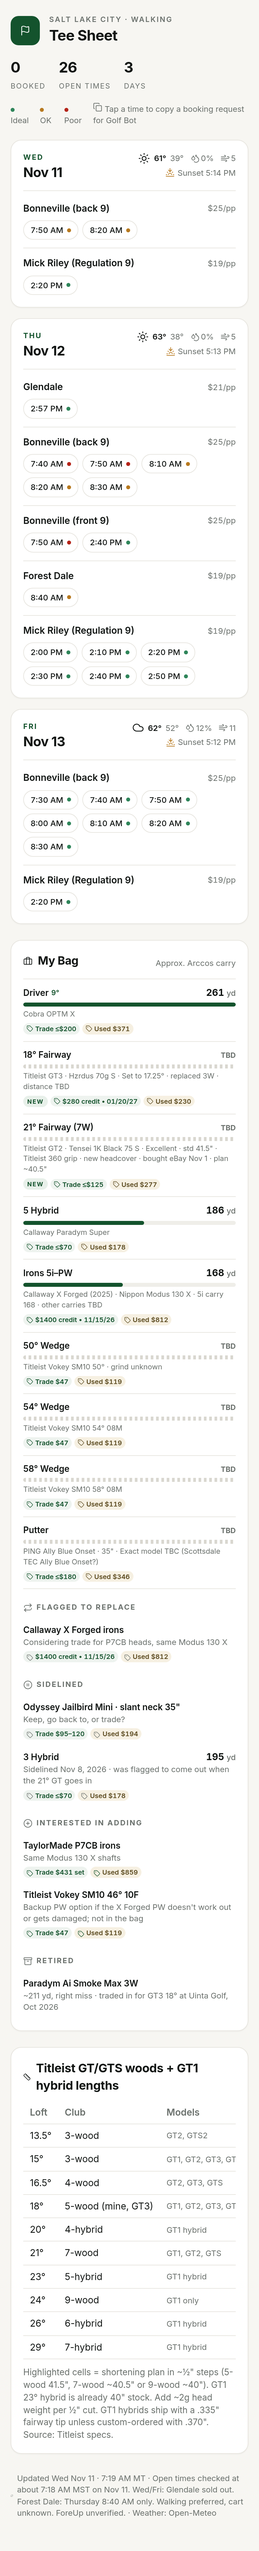
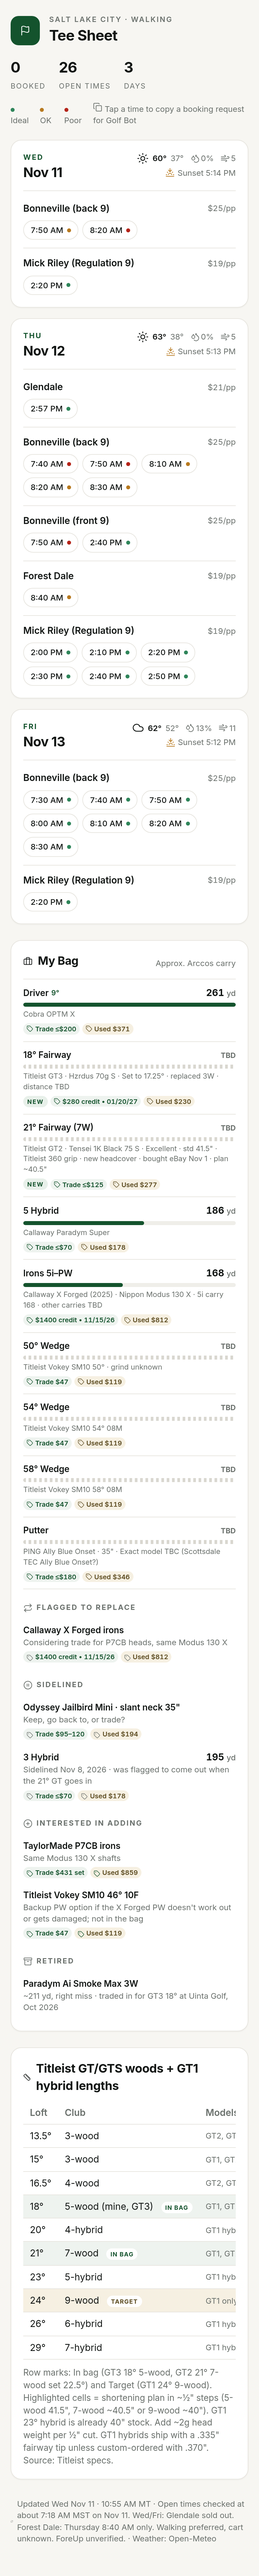
Update schedule 2026-11-11 10:55 MT

diff --git a/index.html b/index.html
@@ -9,7 +9,7 @@
 h1{margin:0;font-size:26px;font-weight:700;letter-spacing:-.02em}.eyebrow{font-size:11px;letter-spacing:.14em;text-transform:uppercase;color:var(--mu);font-weight:600}
 .stats{display:flex;gap:28px}.stat b{display:block;font-size:22px;font-weight:700;letter-spacing:-.02em}.stat span{font-size:11px;color:var(--mu);text-transform:uppercase;letter-spacing:.1em}
 .legend{display:flex;gap:14px;font-size:12px;color:var(--mu);align-items:center;margin:-16px 0 20px}.legend i.dot{margin-right:5px}
-.lenchart{margin-top:24px}.lenchart h2{display:flex;gap:8px;align-items:center;font-size:18px;margin:0 0 10px}.lenchart .tw{overflow-x:auto}.lenchart table{width:100%;border-collapse:collapse;font-size:14px}.lenchart th,.lenchart td{padding:7px 10px;border-bottom:1px solid var(--ln);text-align:left;white-space:nowrap}.lenchart th{color:var(--mu);font-weight:600}.lenchart td.hl{background:var(--g2);color:var(--g);font-weight:700}.lenchart p{font-size:13px;margin:10px 0 0}
+.lenchart{margin-top:24px}.lenchart h2{display:flex;gap:8px;align-items:center;font-size:18px;margin:0 0 10px}.lenchart .tw{overflow-x:auto}.lenchart table{width:100%;border-collapse:collapse;font-size:14px}.lenchart th,.lenchart td{padding:7px 10px;border-bottom:1px solid var(--ln);text-align:left;white-space:nowrap}.lenchart th{color:var(--mu);font-weight:600}.lenchart td.hl{background:var(--g2);color:var(--g);font-weight:700}.lenchart tr.inbag td{background:#eef3ef}.lenchart tr.target td{background:#f6f0e2}.lenchart .mtag{display:inline-flex;margin-left:8px;font-size:9px;font-weight:700;letter-spacing:.08em;text-transform:uppercase;padding:2px 6px;border-radius:999px;vertical-align:middle;background:#fff}.lenchart tr.inbag .mtag{color:var(--g)}.lenchart tr.target .mtag{color:#5b4a1f}.lenchart p{font-size:13px;margin:10px 0 0}
 .layout{display:grid;grid-template-columns:1fr 380px;gap:24px;align-items:start}
 .grid{display:grid;grid-template-columns:repeat(auto-fill,minmax(260px,1fr));gap:16px}
 .wxc{display:flex;flex-direction:column;align-items:flex-end;min-width:0}.sun{display:flex;justify-content:flex-end;align-items:center;gap:4px;margin-top:4px;font-size:12px;color:var(--mu);white-space:nowrap}.sun .ic{width:13px;height:13px;color:var(--am)}
@@ -49,8 +49,8 @@ ul{list-style:none;margin:0;padding:0}.ladder{border-top:1px solid var(--ln)}
 <div class="top"><div class="brand"><div class="logo"><i data-lucide="flag" class="ic "></i></div><div><div class="eyebrow">Salt Lake City · Walking</div><h1>Tee Sheet</h1></div></div>
 <div class="stats"><div class="stat"><b>0</b><span>Booked</span></div><div class="stat"><b>26</b><span>Open times</span></div><div class="stat"><b>3</b><span>Days</span></div></div></div>
 <div class="legend"><span><i class="dot ideal"></i>Ideal</span><span><i class="dot ok"></i>OK</span><span><i class="dot poor"></i>Poor</span><span><i data-lucide="copy" class="ic s"></i> Tap a time to copy a booking request for Golf Bot</span></div>
-<div class="layout"><div class="grid"><section class="card day"><header><div><div class="dow">Wed</div><div class="dt">Nov 11</div></div><div class="wxc"><div class="sum" title="☀ Clear (7a–7p)"><i data-lucide="sun" class="ic "></i><span class="hi">61°</span><span class="lo">39°</span><span class="m"><i data-lucide="droplets" class="ic s"></i>0%</span><span class="m"><i data-lucide="wind" class="ic s"></i>5</span></div><div class="sun"><i data-lucide="sunset" class="ic s"></i>Sunset 5:14 PM</div></div></header><div class="crs"><div class="row"><span class="cn">Bonneville (back 9)</span><span class="pr">$25/pp</span></div><div class="tts"><button class="tt ok" data-msg="Book Bonneville (back 9) Wed Nov 11 7:50 AM" title="☀ Clear · 40°F · 0% precip · 2 mph · tap to copy booking request" aria-label="Copy: Book Bonneville (back 9) Wed Nov 11 7:50 AM" onclick="cp(this)"><span>7:50 AM</span><i class="dot"></i></button><button class="tt ok" data-msg="Book Bonneville (back 9) Wed Nov 11 8:20 AM" title="☀ Clear · 39°F · 0% precip · 0 mph · tap to copy booking request" aria-label="Copy: Book Bonneville (back 9) Wed Nov 11 8:20 AM" onclick="cp(this)"><span>8:20 AM</span><i class="dot"></i></button></div></div><div class="crs"><div class="row"><span class="cn">Mick Riley (Regulation 9)</span><span class="pr">$19/pp</span></div><div class="tts"><button class="tt ideal" data-msg="Book Mick Riley (Regulation 9) Wed Nov 11 2:20 PM" title="☀ Clear · 61°F · 0% precip · 4 mph · tap to copy booking request" aria-label="Copy: Book Mick Riley (Regulation 9) Wed Nov 11 2:20 PM" onclick="cp(this)"><span>2:20 PM</span><i class="dot"></i></button></div></div></section><section class="card day"><header><div><div class="dow">Thu</div><div class="dt">Nov 12</div></div><div class="wxc"><div class="sum" title="☀ Clear (7a–7p)"><i data-lucide="sun" class="ic "></i><span class="hi">63°</span><span class="lo">38°</span><span class="m"><i data-lucide="droplets" class="ic s"></i>0%</span><span class="m"><i data-lucide="wind" class="ic s"></i>5</span></div><div class="sun"><i data-lucide="sunset" class="ic s"></i>Sunset 5:13 PM</div></div></header><div class="crs"><div class="row"><span class="cn">Glendale</span><span class="pr">$21/pp</span></div><div class="tts"><button class="tt ideal" data-msg="Book Glendale Thu Nov 12 2:57 PM" title="🌤 Mostly clear · 62°F · 0% precip · 5 mph · tap to copy booking request" aria-label="Copy: Book Glendale Thu Nov 12 2:57 PM" onclick="cp(this)"><span>2:57 PM</span><i class="dot"></i></button></div></div><div class="crs"><div class="row"><span class="cn">Bonneville (back 9)</span><span class="pr">$25/pp</span></div><div class="tts"><button class="tt poor" data-msg="Book Bonneville (back 9) Thu Nov 12 7:40 AM" title="☀ Clear · 38°F · 0% precip · 2 mph · tap to copy booking request" aria-label="Copy: Book Bonneville (back 9) Thu Nov 12 7:40 AM" onclick="cp(this)"><span>7:40 AM</span><i class="dot"></i></button><button class="tt poor" data-msg="Book Bonneville (back 9) Thu Nov 12 7:50 AM" title="☀ Clear · 38°F · 0% precip · 2 mph · tap to copy booking request" aria-label="Copy: Book Bonneville (back 9) Thu Nov 12 7:50 AM" onclick="cp(this)"><span>7:50 AM</span><i class="dot"></i></button><button class="tt ok" data-msg="Book Bonneville (back 9) Thu Nov 12 8:10 AM" title="☀ Clear · 40°F · 0% precip · 3 mph · tap to copy booking request" aria-label="Copy: Book Bonneville (back 9) Thu Nov 12 8:10 AM" onclick="cp(this)"><span>8:10 AM</span><i class="dot"></i></button><button class="tt ok" data-msg="Book Bonneville (back 9) Thu Nov 12 8:20 AM" title="☀ Clear · 40°F · 0% precip · 3 mph · tap to copy booking request" aria-label="Copy: Book Bonneville (back 9) Thu Nov 12 8:20 AM" onclick="cp(this)"><span>8:20 AM</span><i class="dot"></i></button><button class="tt ok" data-msg="Book Bonneville (back 9) Thu Nov 12 8:30 AM" title="☀ Clear · 40°F · 0% precip · 3 mph · tap to copy booking request" aria-label="Copy: Book Bonneville (back 9) Thu Nov 12 8:30 AM" onclick="cp(this)"><span>8:30 AM</span><i class="dot"></i></button></div></div><div class="crs"><div class="row"><span class="cn">Bonneville (front 9)</span><span class="pr">$25/pp</span></div><div class="tts"><button class="tt poor" data-msg="Book Bonneville (front 9) Thu Nov 12 7:50 AM" title="☀ Clear · 38°F · 0% precip · 2 mph · tap to copy booking request" aria-label="Copy: Book Bonneville (front 9) Thu Nov 12 7:50 AM" onclick="cp(this)"><span>7:50 AM</span><i class="dot"></i></button><button class="tt ideal" data-msg="Book Bonneville (front 9) Thu Nov 12 2:40 PM" title="🌤 Mostly clear · 62°F · 0% precip · 5 mph · tap to copy booking request" aria-label="Copy: Book Bonneville (front 9) Thu Nov 12 2:40 PM" onclick="cp(this)"><span>2:40 PM</span><i class="dot"></i></button></div></div><div class="crs"><div class="row"><span class="cn">Forest Dale</span><span class="pr">$19/pp</span></div><div class="tts"><button class="tt ok" data-msg="Book Forest Dale Thu Nov 12 8:40 AM" title="☀ Clear · 40°F · 0% precip · 3 mph · tap to copy booking request" aria-label="Copy: Book Forest Dale Thu Nov 12 8:40 AM" onclick="cp(this)"><span>8:40 AM</span><i class="dot"></i></button></div></div><div class="crs"><div class="row"><span class="cn">Mick Riley (Regulation 9)</span><span class="pr">$19/pp</span></div><div class="tts"><button class="tt ideal" data-msg="Book Mick Riley (Regulation 9) Thu Nov 12 2:00 PM" title="🌤 Mostly clear · 62°F · 0% precip · 5 mph · tap to copy booking request" aria-label="Copy: Book Mick Riley (Regulation 9) Thu Nov 12 2:00 PM" onclick="cp(this)"><span>2:00 PM</span><i class="dot"></i></button><button class="tt ideal" data-msg="Book Mick Riley (Regulation 9) Thu Nov 12 2:10 PM" title="🌤 Mostly clear · 62°F · 0% precip · 5 mph · tap to copy booking request" aria-label="Copy: Book Mick Riley (Regulation 9) Thu Nov 12 2:10 PM" onclick="cp(this)"><span>2:10 PM</span><i class="dot"></i></button><button class="tt ideal" data-msg="Book Mick Riley (Regulation 9) Thu Nov 12 2:20 PM" title="🌤 Mostly clear · 62°F · 0% precip · 5 mph · tap to copy booking request" aria-label="Copy: Book Mick Riley (Regulation 9) Thu Nov 12 2:20 PM" onclick="cp(this)"><span>2:20 PM</span><i class="dot"></i></button><button class="tt ideal" data-msg="Book Mick Riley (Regulation 9) Thu Nov 12 2:30 PM" title="🌤 Mostly clear · 62°F · 0% precip · 5 mph · tap to copy booking request" aria-label="Copy: Book Mick Riley (Regulation 9) Thu Nov 12 2:30 PM" onclick="cp(this)"><span>2:30 PM</span><i class="dot"></i></button><button class="tt ideal" data-msg="Book Mick Riley (Regulation 9) Thu Nov 12 2:40 PM" title="🌤 Mostly clear · 62°F · 0% precip · 5 mph · tap to copy booking request" aria-label="Copy: Book Mick Riley (Regulation 9) Thu Nov 12 2:40 PM" onclick="cp(this)"><span>2:40 PM</span><i class="dot"></i></button><button class="tt ideal" data-msg="Book Mick Riley (Regulation 9) Thu Nov 12 2:50 PM" title="🌤 Mostly clear · 62°F · 0% precip · 5 mph · tap to copy booking request" aria-label="Copy: Book Mick Riley (Regulation 9) Thu Nov 12 2:50 PM" onclick="cp(this)"><span>2:50 PM</span><i class="dot"></i></button></div></div></section><section class="card day"><header><div><div class="dow">Fri</div><div class="dt">Nov 13</div></div><div class="wxc"><div class="sum" title="☁ Overcast (7a–7p)"><i data-lucide="cloud" class="ic "></i><span class="hi">62°</span><span class="lo">52°</span><span class="m"><i data-lucide="droplets" class="ic s"></i>12%</span><span class="m"><i data-lucide="wind" class="ic s"></i>11</span></div><div class="sun"><i data-lucide="sunset" class="ic s"></i>Sunset 5:12 PM</div></div></header><div class="crs"><div class="row"><span class="cn">Bonneville (back 9)</span><span class="pr">$25/pp</span></div><div class="tts"><button class="tt ideal" data-msg="Book Bonneville (back 9) Fri Nov 13 7:30 AM" title="☁ Overcast · 52°F · 0% precip · 5 mph · tap to copy booking request" aria-label="Copy: Book Bonneville (back 9) Fri Nov 13 7:30 AM" onclick="cp(this)"><span>7:30 AM</span><i class="dot"></i></button><button class="tt ideal" data-msg="Book Bonneville (back 9) Fri Nov 13 7:40 AM" title="☁ Overcast · 52°F · 0% precip · 5 mph · tap to copy booking request" aria-label="Copy: Book Bonneville (back 9) Fri Nov 13 7:40 AM" onclick="cp(this)"><span>7:40 AM</span><i class="dot"></i></button><button class="tt ideal" data-msg="Book Bonneville (back 9) Fri Nov 13 7:50 AM" title="☁ Overcast · 52°F · 0% precip · 5 mph · tap to copy booking request" aria-label="Copy: Book Bonneville (back 9) Fri Nov 13 7:50 AM" onclick="cp(this)"><span>7:50 AM</span><i class="dot"></i></button><button class="tt ideal" data-msg="Book Bonneville (back 9) Fri Nov 13 8:00 AM" title="☁ Overcast · 52°F · 0% precip · 4 mph · tap to copy booking request" aria-label="Copy: Book Bonneville (back 9) Fri Nov 13 8:00 AM" onclick="cp(this)"><span>8:00 AM</span><i class="dot"></i></button><button class="tt ideal" data-msg="Book Bonneville (back 9) Fri Nov 13 8:10 AM" title="☁ Overcast · 52°F · 0% precip · 4 mph · tap to copy booking request" aria-label="Copy: Book Bonneville (back 9) Fri Nov 13 8:10 AM" onclick="cp(this)"><span>8:10 AM</span><i class="dot"></i></button><button class="tt ideal" data-msg="Book Bonneville (back 9) Fri Nov 13 8:20 AM" title="☁ Overcast · 52°F · 0% precip · 4 mph · tap to copy booking request" aria-label="Copy: Book Bonneville (back 9) Fri Nov 13 8:20 AM" onclick="cp(this)"><span>8:20 AM</span><i class="dot"></i></button><button class="tt ideal" data-msg="Book Bonneville (back 9) Fri Nov 13 8:30 AM" title="☁ Overcast · 52°F · 0% precip · 4 mph · tap to copy booking request" aria-label="Copy: Book Bonneville (back 9) Fri Nov 13 8:30 AM" onclick="cp(this)"><span>8:30 AM</span><i class="dot"></i></button></div></div><div class="crs"><div class="row"><span class="cn">Mick Riley (Regulation 9)</span><span class="pr">$19/pp</span></div><div class="tts"><button class="tt ideal" data-msg="Book Mick Riley (Regulation 9) Fri Nov 13 2:20 PM" title="☁ Overcast · 62°F · 0% precip · 11 mph · tap to copy booking request" aria-label="Copy: Book Mick Riley (Regulation 9) Fri Nov 13 2:20 PM" onclick="cp(this)"><span>2:20 PM</span><i class="dot"></i></button></div></div></section></div><section class="card bag"><header><h2><i data-lucide="briefcase" class="ic s"></i>My Bag</h2><span class="muted">Approx. Arccos carry</span></header><ul class="ladder"><li class="lad"><div class="l1"><div class="cname">Driver <small>9°</small></div><div class="yd">261 <small>yd</small></div></div><div class="bar"><span style="width:100%"></span></div><div class="muted">Cobra OPTM X</div><div class=bdg><span class="val" title="On in Two trade-in (up-to ceiling) · 2026-11-02"><i data-lucide="tag" class="ic xs"></i>Trade ≤$200</span><span class="val used" title="2nd Swing used OPTM X Stiff: 9° Mint $379.99 (Kai&#x27;li White 60), 10.5° Above Average $362.99 · 2026-11-02"><i data-lucide="tag" class="ic xs"></i>Used $371</span></div></li><li class="lad"><div class="l1"><div class="cname">18° Fairway</div><div class="yd muted">TBD</div></div><div class="bar tbd"><span></span></div><div class="muted">Titleist GT3 · Hzrdus 70g S · Set to 17.25° · replaced 3W · distance TBD</div><div class=bdg><span class="pill sm">New</span><span class="val" title="Uinta Golf 90-day guarantee, bought Oct 22, 2026 · 2026-10-22"><i data-lucide="tag" class="ic xs"></i>$280 credit • 01/20/27</span><span class="val used" title="Global Golf used GT3 fairway Excellent $229.99; eBay sold GT3 18° 5W median $231 (Teeworth, 90 days) · 2026-10-26"><i data-lucide="tag" class="ic xs"></i>Used $230</span></div></li><li class="lad"><div class="l1"><div class="cname">21° Fairway (7W)</div><div class="yd muted">TBD</div></div><div class="bar tbd"><span></span></div><div class="muted">Titleist GT2 · Tensei 1K Black 75 S · Excellent · std 41.5&quot; · Titleist 360 grip · new headcover · bought eBay Nov 1 · plan ~40.5&quot;</div><div class=bdg><span class="pill sm">New</span><span class="val" title="On in Two trade-in (up-to ceiling, excellent) · Titleist GT2 fairway · 2026-11-02"><i data-lucide="tag" class="ic xs"></i>Trade ≤$125</span><span class="val used" title="Avg of Global Golf GT2 Very Good $264.99 and Next Round GT2 Excellent $289.99; eBay sold median $200 (45 sales, Face Value Golf) · 2026-10-26"><i data-lucide="tag" class="ic xs"></i>Used $277</span></div></li><li class="lad"><div class="l1"><div class="cname">5 Hybrid</div><div class="yd">186 <small>yd</small></div></div><div class="bar"><span style="width:57%"></span></div><div class="muted">Callaway Paradym Super</div><div class=bdg><span class="val" title="On in Two trade-in (up-to ceiling) · 2026-11-02"><i data-lucide="tag" class="ic xs"></i>Trade ≤$70</span><span class="val used" title="Face Value Golf typical used asking, Paradym Super hybrid Above Average grade (Callaway Pre-Owned from $120 Avg) · 2026-10-26"><i data-lucide="tag" class="ic xs"></i>Used $178</span></div></li><li class="lad"><div class="l1"><div class="cname">Irons 5i–PW</div><div class="yd">168 <small>yd</small></div></div><div class="bar"><span style="width:47%"></span></div><div class="muted">Callaway X Forged (2025) · Nippon Modus 130 X · 5i carry 168 · other carries TBD</div><div class=bdg><span class="val" title="Jason: trade-in guarantee value, trade by Nov 15, 2026 (deadline approx., per Jason) · 2026-10-26"><i data-lucide="tag" class="ic xs"></i>$1400 credit • 11/15/26</span><span class="val used" title="FairwayWire eBay sold avg, X Forged 2025 set (18 sales, mostly 4-PW, mixed shafts); Excellent/Very Good sales $986–$1,200 · 2026-10-26"><i data-lucide="tag" class="ic xs"></i>Used $812</span></div></li><li class="lad"><div class="l1"><div class="cname">50° Wedge</div><div class="yd muted">TBD</div></div><div class="bar tbd"><span></span></div><div class="muted">Titleist Vokey SM10 50° · grind unknown</div><div class=bdg><span class="val" title="2nd Swing store credit via Face Value Golf (SM10 family, avg cond., checked Oct 21); iGolf Value Guide cash $47 · 2026-11-02"><i data-lucide="tag" class="ic xs"></i>Trade $47</span><span class="val used" title="Titleist Certified Pre-Owned SM10 Excellent $119 · 2026-10-26"><i data-lucide="tag" class="ic xs"></i>Used $119</span></div></li><li class="lad"><div class="l1"><div class="cname">54° Wedge</div><div class="yd muted">TBD</div></div><div class="bar tbd"><span></span></div><div class="muted">Titleist Vokey SM10 54° 08M</div><div class=bdg><span class="val" title="2nd Swing store credit via Face Value Golf (SM10 family, avg cond., checked Oct 21); iGolf Value Guide cash $47 · 2026-11-02"><i data-lucide="tag" class="ic xs"></i>Trade $47</span><span class="val used" title="Titleist Certified Pre-Owned SM10 Excellent $119 · 2026-10-26"><i data-lucide="tag" class="ic xs"></i>Used $119</span></div></li><li class="lad"><div class="l1"><div class="cname">58° Wedge</div><div class="yd muted">TBD</div></div><div class="bar tbd"><span></span></div><div class="muted">Titleist Vokey SM10 58° 08M</div><div class=bdg><span class="val" title="2nd Swing store credit via Face Value Golf (SM10 family, avg cond., checked Oct 21); iGolf Value Guide cash $47 · 2026-11-02"><i data-lucide="tag" class="ic xs"></i>Trade $47</span><span class="val used" title="Titleist Certified Pre-Owned SM10 Excellent $119 · 2026-10-26"><i data-lucide="tag" class="ic xs"></i>Used $119</span></div></li><li class="lad"><div class="l1"><div class="cname">Putter</div><div class="yd muted">TBD</div></div><div class="bar tbd"><span></span></div><div class="muted">PING Ally Blue Onset · 35&quot; · Exact model TBC (Scottsdale TEC Ally Blue Onset?)</div><div class=bdg><span class="val" title="On in Two trade-in (up-to ceiling) · Scottsdale TEC Ally Blue Onset; PLD SE Ally Blue 4 Onset $185 · 2026-11-02"><i data-lucide="tag" class="ic xs"></i>Trade ≤$180</span><span class="val used" title="ClubChecks used target, Scottsdale TEC Ally Blue Onset; Carl&#x27;s Golfland 35&quot; Very Good $349.99 · 2026-10-26"><i data-lucide="tag" class="ic xs"></i>Used $346</span></div></li></ul><div class="subs"><div class="sub"><h3><i data-lucide="repeat" class="ic s"></i>Flagged to replace</h3><ul class="lst replace"><li><div class="it"><div class="l1"><div class="cname">Callaway X Forged irons</div></div><div class="muted">Considering trade for P7CB heads, same Modus 130 X</div><div class=bdg><span class="val" title="Jason: trade-in guarantee value, trade by Nov 15, 2026 (deadline approx., per Jason) · 2026-10-26"><i data-lucide="tag" class="ic xs"></i>$1400 credit • 11/15/26</span><span class="val used" title="FairwayWire eBay sold avg, X Forged 2025 set (18 sales, mostly 4-PW, mixed shafts); Excellent/Very Good sales $986–$1,200 · 2026-10-26"><i data-lucide="tag" class="ic xs"></i>Used $812</span></div></div></li></ul></div><div class="sub"><h3><i data-lucide="pause-circle" class="ic s"></i>Sidelined</h3><ul class="lst sidelined"><li><div class="it"><div class="l1"><div class="cname">Odyssey Jailbird Mini · slant neck 35&quot;</div></div><div class="muted">Keep, go back to, or trade?</div><div class=bdg><span class="val" title="On in Two trade-in ceilings: Ai-ONE Jailbird Mini S $95 – Ai-DUAL Jailbird Mini $120 (exact version TBC) · 2026-11-02"><i data-lucide="tag" class="ic xs"></i>Trade $95–120</span><span class="val used" title="Golf Club Index avg sold, Odyssey Ai-ONE Jailbird Mini (exact version TBC) · 2026-10-26"><i data-lucide="tag" class="ic xs"></i>Used $194</span></div></div></li><li><div class="it"><div class="l1"><div class="cname">3 Hybrid</div><div class=yd>195 <small>yd</small></div></div><div class="muted">Sidelined Nov 8, 2026 · was flagged to come out when the 21° GT goes in</div><div class=bdg><span class="val" title="On in Two trade-in (up-to ceiling) · 2026-11-02"><i data-lucide="tag" class="ic xs"></i>Trade ≤$70</span><span class="val used" title="Face Value Golf typical used asking, Paradym Super hybrid Above Average grade (Callaway Pre-Owned from $120 Avg) · 2026-10-26"><i data-lucide="tag" class="ic xs"></i>Used $178</span></div></div></li></ul></div><div class="sub"><h3><i data-lucide="plus-circle" class="ic s"></i>Interested in adding</h3><ul class="lst add"><li><div class="it"><div class="l1"><div class="cname">TaylorMade P7CB irons</div></div><div class="muted">Same Modus 130 X shafts</div><div class=bdg><span class="val" title="Face Value Golf: best cash offer, iGolf Value Guide, 7-club set, Average ($61.50/club), checked Oct 11 · 2026-10-26"><i data-lucide="tag" class="ic xs"></i>Trade $431 set</span><span class="val used" title="Face Value Golf typical used asking, 7-club set, median of 44 listings (Average or better), checked Oct 11; Global Golf Average 4-PW $760 · 2026-10-26"><i data-lucide="tag" class="ic xs"></i>Used $859</span></div></div></li><li><div class="it"><div class="l1"><div class="cname">Titleist Vokey SM10 46° 10F</div></div><div class="muted">Backup PW option if the X Forged PW doesn&#x27;t work out or gets damaged; not in the bag</div><div class=bdg><span class="val" title="2nd Swing store credit via Face Value Golf (SM10 family, avg cond.) · 2026-10-23"><i data-lucide="tag" class="ic xs"></i>Trade $47</span><span class="val used" title="Titleist Certified Pre-Owned SM10 Excellent $119 · 2026-10-26"><i data-lucide="tag" class="ic xs"></i>Used $119</span></div></div></li></ul></div><div class="sub"><h3><i data-lucide="archive" class="ic s"></i>Retired</h3><ul class="lst retired"><li><div class="it"><div class="l1"><div class="cname">Paradym Ai Smoke Max 3W</div></div><div class="muted">~211 yd, right miss · traded in for GT3 18° at Uinta Golf, Oct 2026</div></div></li></ul></div></div></section></div><section class="card lenchart"><header><h2><i data-lucide="ruler" class="ic s"></i>Titleist GT/GTS woods + GT1 hybrid lengths</h2></header><div class="tw"><table><thead><tr><th>Loft</th><th>Club</th><th>Models</th><th>Std</th><th>−½"</th><th>−1"</th></tr></thead><tbody><tr><td>13.5°</td><td>3-wood</td><td class="muted">GT2, GTS2</td><td>43"</td><td>42.5"</td><td>42"</td></tr><tr><td>15°</td><td>3-wood</td><td class="muted">GT1, GT2, GT3, GTS</td><td>43"</td><td>42.5"</td><td>42"</td></tr><tr><td>16.5°</td><td>4-wood</td><td class="muted">GT2, GT3, GTS</td><td>43"</td><td>42.5"</td><td>42"</td></tr><tr><td>18°</td><td>5-wood (mine, GT3)</td><td class="muted">GT1, GT2, GT3, GTS</td><td>42"</td><td class=hl>41.5"</td><td>41"</td></tr><tr><td>20°</td><td>4-hybrid</td><td class="muted">GT1 hybrid</td><td>40.5"</td><td>40"</td><td>39.5"</td></tr><tr><td>21°</td><td>7-wood</td><td class="muted">GT1, GT2, GTS</td><td>41.5"</td><td>41"</td><td class=hl>40.5"</td></tr><tr><td>23°</td><td>5-hybrid</td><td class="muted">GT1 hybrid</td><td>40"</td><td>39.5"</td><td>39"</td></tr><tr><td>24°</td><td>9-wood</td><td class="muted">GT1 only</td><td>41"</td><td>40.5"</td><td class=hl>40"</td></tr><tr><td>26°</td><td>6-hybrid</td><td class="muted">GT1 hybrid</td><td>39.5"</td><td>39"</td><td>38.5"</td></tr><tr><td>29°</td><td>7-hybrid</td><td class="muted">GT1 hybrid</td><td>39"</td><td>38.5"</td><td>38"</td></tr></tbody></table></div><p class="muted">Highlighted cells = shortening plan in ~½" steps (5-wood 41.5", 7-wood ~40.5" or 9-wood ~40"). GT1 23° hybrid is already 40" stock. Add ~2g head weight per ½" cut. GT1 hybrids ship with a .335" fairway tip unless custom-ordered with .370". Source: Titleist specs.</p></section>
-<div class="foot"><i data-lucide="refresh-cw" class="ic s"></i>Updated Wed Nov 11 · 7:19 AM MT · Open times checked at about 7:18 AM MST on Nov 11. Wed/Fri: Glendale sold out. Forest Dale: Thursday 8:40 AM only. Walking preferred, cart unknown. ForeUp unverified. · Weather: Open-Meteo</div></div>
+<div class="layout"><div class="grid"><section class="card day"><header><div><div class="dow">Wed</div><div class="dt">Nov 11</div></div><div class="wxc"><div class="sum" title="☀ Clear (7a–7p)"><i data-lucide="sun" class="ic "></i><span class="hi">60°</span><span class="lo">37°</span><span class="m"><i data-lucide="droplets" class="ic s"></i>0%</span><span class="m"><i data-lucide="wind" class="ic s"></i>5</span></div><div class="sun"><i data-lucide="sunset" class="ic s"></i>Sunset 5:14 PM</div></div></header><div class="crs"><div class="row"><span class="cn">Bonneville (back 9)</span><span class="pr">$25/pp</span></div><div class="tts"><button class="tt ok" data-msg="Book Bonneville (back 9) Wed Nov 11 7:50 AM" title="☀ Clear · 41°F · 0% precip · 4 mph · tap to copy booking request" aria-label="Copy: Book Bonneville (back 9) Wed Nov 11 7:50 AM" onclick="cp(this)"><span>7:50 AM</span><i class="dot"></i></button><button class="tt poor" data-msg="Book Bonneville (back 9) Wed Nov 11 8:20 AM" title="☀ Clear · 37°F · 0% precip · 5 mph · tap to copy booking request" aria-label="Copy: Book Bonneville (back 9) Wed Nov 11 8:20 AM" onclick="cp(this)"><span>8:20 AM</span><i class="dot"></i></button></div></div><div class="crs"><div class="row"><span class="cn">Mick Riley (Regulation 9)</span><span class="pr">$19/pp</span></div><div class="tts"><button class="tt ideal" data-msg="Book Mick Riley (Regulation 9) Wed Nov 11 2:20 PM" title="☀ Clear · 60°F · 0% precip · 4 mph · tap to copy booking request" aria-label="Copy: Book Mick Riley (Regulation 9) Wed Nov 11 2:20 PM" onclick="cp(this)"><span>2:20 PM</span><i class="dot"></i></button></div></div></section><section class="card day"><header><div><div class="dow">Thu</div><div class="dt">Nov 12</div></div><div class="wxc"><div class="sum" title="☀ Clear (7a–7p)"><i data-lucide="sun" class="ic "></i><span class="hi">63°</span><span class="lo">38°</span><span class="m"><i data-lucide="droplets" class="ic s"></i>0%</span><span class="m"><i data-lucide="wind" class="ic s"></i>5</span></div><div class="sun"><i data-lucide="sunset" class="ic s"></i>Sunset 5:13 PM</div></div></header><div class="crs"><div class="row"><span class="cn">Glendale</span><span class="pr">$21/pp</span></div><div class="tts"><button class="tt ideal" data-msg="Book Glendale Thu Nov 12 2:57 PM" title="🌤 Mostly clear · 62°F · 0% precip · 5 mph · tap to copy booking request" aria-label="Copy: Book Glendale Thu Nov 12 2:57 PM" onclick="cp(this)"><span>2:57 PM</span><i class="dot"></i></button></div></div><div class="crs"><div class="row"><span class="cn">Bonneville (back 9)</span><span class="pr">$25/pp</span></div><div class="tts"><button class="tt poor" data-msg="Book Bonneville (back 9) Thu Nov 12 7:40 AM" title="☀ Clear · 38°F · 0% precip · 2 mph · tap to copy booking request" aria-label="Copy: Book Bonneville (back 9) Thu Nov 12 7:40 AM" onclick="cp(this)"><span>7:40 AM</span><i class="dot"></i></button><button class="tt poor" data-msg="Book Bonneville (back 9) Thu Nov 12 7:50 AM" title="☀ Clear · 38°F · 0% precip · 2 mph · tap to copy booking request" aria-label="Copy: Book Bonneville (back 9) Thu Nov 12 7:50 AM" onclick="cp(this)"><span>7:50 AM</span><i class="dot"></i></button><button class="tt ok" data-msg="Book Bonneville (back 9) Thu Nov 12 8:10 AM" title="☀ Clear · 40°F · 0% precip · 3 mph · tap to copy booking request" aria-label="Copy: Book Bonneville (back 9) Thu Nov 12 8:10 AM" onclick="cp(this)"><span>8:10 AM</span><i class="dot"></i></button><button class="tt ok" data-msg="Book Bonneville (back 9) Thu Nov 12 8:20 AM" title="☀ Clear · 40°F · 0% precip · 3 mph · tap to copy booking request" aria-label="Copy: Book Bonneville (back 9) Thu Nov 12 8:20 AM" onclick="cp(this)"><span>8:20 AM</span><i class="dot"></i></button><button class="tt ok" data-msg="Book Bonneville (back 9) Thu Nov 12 8:30 AM" title="☀ Clear · 40°F · 0% precip · 3 mph · tap to copy booking request" aria-label="Copy: Book Bonneville (back 9) Thu Nov 12 8:30 AM" onclick="cp(this)"><span>8:30 AM</span><i class="dot"></i></button></div></div><div class="crs"><div class="row"><span class="cn">Bonneville (front 9)</span><span class="pr">$25/pp</span></div><div class="tts"><button class="tt poor" data-msg="Book Bonneville (front 9) Thu Nov 12 7:50 AM" title="☀ Clear · 38°F · 0% precip · 2 mph · tap to copy booking request" aria-label="Copy: Book Bonneville (front 9) Thu Nov 12 7:50 AM" onclick="cp(this)"><span>7:50 AM</span><i class="dot"></i></button><button class="tt ideal" data-msg="Book Bonneville (front 9) Thu Nov 12 2:40 PM" title="🌤 Mostly clear · 62°F · 0% precip · 5 mph · tap to copy booking request" aria-label="Copy: Book Bonneville (front 9) Thu Nov 12 2:40 PM" onclick="cp(this)"><span>2:40 PM</span><i class="dot"></i></button></div></div><div class="crs"><div class="row"><span class="cn">Forest Dale</span><span class="pr">$19/pp</span></div><div class="tts"><button class="tt ok" data-msg="Book Forest Dale Thu Nov 12 8:40 AM" title="☀ Clear · 40°F · 0% precip · 3 mph · tap to copy booking request" aria-label="Copy: Book Forest Dale Thu Nov 12 8:40 AM" onclick="cp(this)"><span>8:40 AM</span><i class="dot"></i></button></div></div><div class="crs"><div class="row"><span class="cn">Mick Riley (Regulation 9)</span><span class="pr">$19/pp</span></div><div class="tts"><button class="tt ideal" data-msg="Book Mick Riley (Regulation 9) Thu Nov 12 2:00 PM" title="🌤 Mostly clear · 62°F · 0% precip · 5 mph · tap to copy booking request" aria-label="Copy: Book Mick Riley (Regulation 9) Thu Nov 12 2:00 PM" onclick="cp(this)"><span>2:00 PM</span><i class="dot"></i></button><button class="tt ideal" data-msg="Book Mick Riley (Regulation 9) Thu Nov 12 2:10 PM" title="🌤 Mostly clear · 62°F · 0% precip · 5 mph · tap to copy booking request" aria-label="Copy: Book Mick Riley (Regulation 9) Thu Nov 12 2:10 PM" onclick="cp(this)"><span>2:10 PM</span><i class="dot"></i></button><button class="tt ideal" data-msg="Book Mick Riley (Regulation 9) Thu Nov 12 2:20 PM" title="🌤 Mostly clear · 62°F · 0% precip · 5 mph · tap to copy booking request" aria-label="Copy: Book Mick Riley (Regulation 9) Thu Nov 12 2:20 PM" onclick="cp(this)"><span>2:20 PM</span><i class="dot"></i></button><button class="tt ideal" data-msg="Book Mick Riley (Regulation 9) Thu Nov 12 2:30 PM" title="🌤 Mostly clear · 62°F · 0% precip · 5 mph · tap to copy booking request" aria-label="Copy: Book Mick Riley (Regulation 9) Thu Nov 12 2:30 PM" onclick="cp(this)"><span>2:30 PM</span><i class="dot"></i></button><button class="tt ideal" data-msg="Book Mick Riley (Regulation 9) Thu Nov 12 2:40 PM" title="🌤 Mostly clear · 62°F · 0% precip · 5 mph · tap to copy booking request" aria-label="Copy: Book Mick Riley (Regulation 9) Thu Nov 12 2:40 PM" onclick="cp(this)"><span>2:40 PM</span><i class="dot"></i></button><button class="tt ideal" data-msg="Book Mick Riley (Regulation 9) Thu Nov 12 2:50 PM" title="🌤 Mostly clear · 62°F · 0% precip · 5 mph · tap to copy booking request" aria-label="Copy: Book Mick Riley (Regulation 9) Thu Nov 12 2:50 PM" onclick="cp(this)"><span>2:50 PM</span><i class="dot"></i></button></div></div></section><section class="card day"><header><div><div class="dow">Fri</div><div class="dt">Nov 13</div></div><div class="wxc"><div class="sum" title="☁ Overcast (7a–7p)"><i data-lucide="cloud" class="ic "></i><span class="hi">62°</span><span class="lo">52°</span><span class="m"><i data-lucide="droplets" class="ic s"></i>13%</span><span class="m"><i data-lucide="wind" class="ic s"></i>11</span></div><div class="sun"><i data-lucide="sunset" class="ic s"></i>Sunset 5:12 PM</div></div></header><div class="crs"><div class="row"><span class="cn">Bonneville (back 9)</span><span class="pr">$25/pp</span></div><div class="tts"><button class="tt ideal" data-msg="Book Bonneville (back 9) Fri Nov 13 7:30 AM" title="☁ Overcast · 52°F · 0% precip · 5 mph · tap to copy booking request" aria-label="Copy: Book Bonneville (back 9) Fri Nov 13 7:30 AM" onclick="cp(this)"><span>7:30 AM</span><i class="dot"></i></button><button class="tt ideal" data-msg="Book Bonneville (back 9) Fri Nov 13 7:40 AM" title="☁ Overcast · 52°F · 0% precip · 5 mph · tap to copy booking request" aria-label="Copy: Book Bonneville (back 9) Fri Nov 13 7:40 AM" onclick="cp(this)"><span>7:40 AM</span><i class="dot"></i></button><button class="tt ideal" data-msg="Book Bonneville (back 9) Fri Nov 13 7:50 AM" title="☁ Overcast · 52°F · 0% precip · 5 mph · tap to copy booking request" aria-label="Copy: Book Bonneville (back 9) Fri Nov 13 7:50 AM" onclick="cp(this)"><span>7:50 AM</span><i class="dot"></i></button><button class="tt ideal" data-msg="Book Bonneville (back 9) Fri Nov 13 8:00 AM" title="☁ Overcast · 52°F · 0% precip · 4 mph · tap to copy booking request" aria-label="Copy: Book Bonneville (back 9) Fri Nov 13 8:00 AM" onclick="cp(this)"><span>8:00 AM</span><i class="dot"></i></button><button class="tt ideal" data-msg="Book Bonneville (back 9) Fri Nov 13 8:10 AM" title="☁ Overcast · 52°F · 0% precip · 4 mph · tap to copy booking request" aria-label="Copy: Book Bonneville (back 9) Fri Nov 13 8:10 AM" onclick="cp(this)"><span>8:10 AM</span><i class="dot"></i></button><button class="tt ideal" data-msg="Book Bonneville (back 9) Fri Nov 13 8:20 AM" title="☁ Overcast · 52°F · 0% precip · 4 mph · tap to copy booking request" aria-label="Copy: Book Bonneville (back 9) Fri Nov 13 8:20 AM" onclick="cp(this)"><span>8:20 AM</span><i class="dot"></i></button><button class="tt ideal" data-msg="Book Bonneville (back 9) Fri Nov 13 8:30 AM" title="☁ Overcast · 52°F · 0% precip · 4 mph · tap to copy booking request" aria-label="Copy: Book Bonneville (back 9) Fri Nov 13 8:30 AM" onclick="cp(this)"><span>8:30 AM</span><i class="dot"></i></button></div></div><div class="crs"><div class="row"><span class="cn">Mick Riley (Regulation 9)</span><span class="pr">$19/pp</span></div><div class="tts"><button class="tt ideal" data-msg="Book Mick Riley (Regulation 9) Fri Nov 13 2:20 PM" title="☁ Overcast · 62°F · 0% precip · 11 mph · tap to copy booking request" aria-label="Copy: Book Mick Riley (Regulation 9) Fri Nov 13 2:20 PM" onclick="cp(this)"><span>2:20 PM</span><i class="dot"></i></button></div></div></section></div><section class="card bag"><header><h2><i data-lucide="briefcase" class="ic s"></i>My Bag</h2><span class="muted">Approx. Arccos carry</span></header><ul class="ladder"><li class="lad"><div class="l1"><div class="cname">Driver <small>9°</small></div><div class="yd">261 <small>yd</small></div></div><div class="bar"><span style="width:100%"></span></div><div class="muted">Cobra OPTM X</div><div class=bdg><span class="val" title="On in Two trade-in (up-to ceiling) · 2026-11-02"><i data-lucide="tag" class="ic xs"></i>Trade ≤$200</span><span class="val used" title="2nd Swing used OPTM X Stiff: 9° Mint $379.99 (Kai&#x27;li White 60), 10.5° Above Average $362.99 · 2026-11-02"><i data-lucide="tag" class="ic xs"></i>Used $371</span></div></li><li class="lad"><div class="l1"><div class="cname">18° Fairway</div><div class="yd muted">TBD</div></div><div class="bar tbd"><span></span></div><div class="muted">Titleist GT3 · Hzrdus 70g S · Set to 17.25° · replaced 3W · distance TBD</div><div class=bdg><span class="pill sm">New</span><span class="val" title="Uinta Golf 90-day guarantee, bought Oct 22, 2026 · 2026-10-22"><i data-lucide="tag" class="ic xs"></i>$280 credit • 01/20/27</span><span class="val used" title="Global Golf used GT3 fairway Excellent $229.99; eBay sold GT3 18° 5W median $231 (Teeworth, 90 days) · 2026-10-26"><i data-lucide="tag" class="ic xs"></i>Used $230</span></div></li><li class="lad"><div class="l1"><div class="cname">21° Fairway (7W)</div><div class="yd muted">TBD</div></div><div class="bar tbd"><span></span></div><div class="muted">Titleist GT2 · Tensei 1K Black 75 S · Excellent · std 41.5&quot; · Titleist 360 grip · new headcover · bought eBay Nov 1 · plan ~40.5&quot;</div><div class=bdg><span class="pill sm">New</span><span class="val" title="On in Two trade-in (up-to ceiling, excellent) · Titleist GT2 fairway · 2026-11-02"><i data-lucide="tag" class="ic xs"></i>Trade ≤$125</span><span class="val used" title="Avg of Global Golf GT2 Very Good $264.99 and Next Round GT2 Excellent $289.99; eBay sold median $200 (45 sales, Face Value Golf) · 2026-10-26"><i data-lucide="tag" class="ic xs"></i>Used $277</span></div></li><li class="lad"><div class="l1"><div class="cname">5 Hybrid</div><div class="yd">186 <small>yd</small></div></div><div class="bar"><span style="width:57%"></span></div><div class="muted">Callaway Paradym Super</div><div class=bdg><span class="val" title="On in Two trade-in (up-to ceiling) · 2026-11-02"><i data-lucide="tag" class="ic xs"></i>Trade ≤$70</span><span class="val used" title="Face Value Golf typical used asking, Paradym Super hybrid Above Average grade (Callaway Pre-Owned from $120 Avg) · 2026-10-26"><i data-lucide="tag" class="ic xs"></i>Used $178</span></div></li><li class="lad"><div class="l1"><div class="cname">Irons 5i–PW</div><div class="yd">168 <small>yd</small></div></div><div class="bar"><span style="width:47%"></span></div><div class="muted">Callaway X Forged (2025) · Nippon Modus 130 X · 5i carry 168 · other carries TBD</div><div class=bdg><span class="val" title="Jason: trade-in guarantee value, trade by Nov 15, 2026 (deadline approx., per Jason) · 2026-10-26"><i data-lucide="tag" class="ic xs"></i>$1400 credit • 11/15/26</span><span class="val used" title="FairwayWire eBay sold avg, X Forged 2025 set (18 sales, mostly 4-PW, mixed shafts); Excellent/Very Good sales $986–$1,200 · 2026-10-26"><i data-lucide="tag" class="ic xs"></i>Used $812</span></div></li><li class="lad"><div class="l1"><div class="cname">50° Wedge</div><div class="yd muted">TBD</div></div><div class="bar tbd"><span></span></div><div class="muted">Titleist Vokey SM10 50° · grind unknown</div><div class=bdg><span class="val" title="2nd Swing store credit via Face Value Golf (SM10 family, avg cond., checked Oct 21); iGolf Value Guide cash $47 · 2026-11-02"><i data-lucide="tag" class="ic xs"></i>Trade $47</span><span class="val used" title="Titleist Certified Pre-Owned SM10 Excellent $119 · 2026-10-26"><i data-lucide="tag" class="ic xs"></i>Used $119</span></div></li><li class="lad"><div class="l1"><div class="cname">54° Wedge</div><div class="yd muted">TBD</div></div><div class="bar tbd"><span></span></div><div class="muted">Titleist Vokey SM10 54° 08M</div><div class=bdg><span class="val" title="2nd Swing store credit via Face Value Golf (SM10 family, avg cond., checked Oct 21); iGolf Value Guide cash $47 · 2026-11-02"><i data-lucide="tag" class="ic xs"></i>Trade $47</span><span class="val used" title="Titleist Certified Pre-Owned SM10 Excellent $119 · 2026-10-26"><i data-lucide="tag" class="ic xs"></i>Used $119</span></div></li><li class="lad"><div class="l1"><div class="cname">58° Wedge</div><div class="yd muted">TBD</div></div><div class="bar tbd"><span></span></div><div class="muted">Titleist Vokey SM10 58° 08M</div><div class=bdg><span class="val" title="2nd Swing store credit via Face Value Golf (SM10 family, avg cond., checked Oct 21); iGolf Value Guide cash $47 · 2026-11-02"><i data-lucide="tag" class="ic xs"></i>Trade $47</span><span class="val used" title="Titleist Certified Pre-Owned SM10 Excellent $119 · 2026-10-26"><i data-lucide="tag" class="ic xs"></i>Used $119</span></div></li><li class="lad"><div class="l1"><div class="cname">Putter</div><div class="yd muted">TBD</div></div><div class="bar tbd"><span></span></div><div class="muted">PING Ally Blue Onset · 35&quot; · Exact model TBC (Scottsdale TEC Ally Blue Onset?)</div><div class=bdg><span class="val" title="On in Two trade-in (up-to ceiling) · Scottsdale TEC Ally Blue Onset; PLD SE Ally Blue 4 Onset $185 · 2026-11-02"><i data-lucide="tag" class="ic xs"></i>Trade ≤$180</span><span class="val used" title="ClubChecks used target, Scottsdale TEC Ally Blue Onset; Carl&#x27;s Golfland 35&quot; Very Good $349.99 · 2026-10-26"><i data-lucide="tag" class="ic xs"></i>Used $346</span></div></li></ul><div class="subs"><div class="sub"><h3><i data-lucide="repeat" class="ic s"></i>Flagged to replace</h3><ul class="lst replace"><li><div class="it"><div class="l1"><div class="cname">Callaway X Forged irons</div></div><div class="muted">Considering trade for P7CB heads, same Modus 130 X</div><div class=bdg><span class="val" title="Jason: trade-in guarantee value, trade by Nov 15, 2026 (deadline approx., per Jason) · 2026-10-26"><i data-lucide="tag" class="ic xs"></i>$1400 credit • 11/15/26</span><span class="val used" title="FairwayWire eBay sold avg, X Forged 2025 set (18 sales, mostly 4-PW, mixed shafts); Excellent/Very Good sales $986–$1,200 · 2026-10-26"><i data-lucide="tag" class="ic xs"></i>Used $812</span></div></div></li></ul></div><div class="sub"><h3><i data-lucide="pause-circle" class="ic s"></i>Sidelined</h3><ul class="lst sidelined"><li><div class="it"><div class="l1"><div class="cname">Odyssey Jailbird Mini · slant neck 35&quot;</div></div><div class="muted">Keep, go back to, or trade?</div><div class=bdg><span class="val" title="On in Two trade-in ceilings: Ai-ONE Jailbird Mini S $95 – Ai-DUAL Jailbird Mini $120 (exact version TBC) · 2026-11-02"><i data-lucide="tag" class="ic xs"></i>Trade $95–120</span><span class="val used" title="Golf Club Index avg sold, Odyssey Ai-ONE Jailbird Mini (exact version TBC) · 2026-10-26"><i data-lucide="tag" class="ic xs"></i>Used $194</span></div></div></li><li><div class="it"><div class="l1"><div class="cname">3 Hybrid</div><div class=yd>195 <small>yd</small></div></div><div class="muted">Sidelined Nov 8, 2026 · was flagged to come out when the 21° GT goes in</div><div class=bdg><span class="val" title="On in Two trade-in (up-to ceiling) · 2026-11-02"><i data-lucide="tag" class="ic xs"></i>Trade ≤$70</span><span class="val used" title="Face Value Golf typical used asking, Paradym Super hybrid Above Average grade (Callaway Pre-Owned from $120 Avg) · 2026-10-26"><i data-lucide="tag" class="ic xs"></i>Used $178</span></div></div></li></ul></div><div class="sub"><h3><i data-lucide="plus-circle" class="ic s"></i>Interested in adding</h3><ul class="lst add"><li><div class="it"><div class="l1"><div class="cname">TaylorMade P7CB irons</div></div><div class="muted">Same Modus 130 X shafts</div><div class=bdg><span class="val" title="Face Value Golf: best cash offer, iGolf Value Guide, 7-club set, Average ($61.50/club), checked Oct 11 · 2026-10-26"><i data-lucide="tag" class="ic xs"></i>Trade $431 set</span><span class="val used" title="Face Value Golf typical used asking, 7-club set, median of 44 listings (Average or better), checked Oct 11; Global Golf Average 4-PW $760 · 2026-10-26"><i data-lucide="tag" class="ic xs"></i>Used $859</span></div></div></li><li><div class="it"><div class="l1"><div class="cname">Titleist Vokey SM10 46° 10F</div></div><div class="muted">Backup PW option if the X Forged PW doesn&#x27;t work out or gets damaged; not in the bag</div><div class=bdg><span class="val" title="2nd Swing store credit via Face Value Golf (SM10 family, avg cond.) · 2026-10-23"><i data-lucide="tag" class="ic xs"></i>Trade $47</span><span class="val used" title="Titleist Certified Pre-Owned SM10 Excellent $119 · 2026-10-26"><i data-lucide="tag" class="ic xs"></i>Used $119</span></div></div></li></ul></div><div class="sub"><h3><i data-lucide="archive" class="ic s"></i>Retired</h3><ul class="lst retired"><li><div class="it"><div class="l1"><div class="cname">Paradym Ai Smoke Max 3W</div></div><div class="muted">~211 yd, right miss · traded in for GT3 18° at Uinta Golf, Oct 2026</div></div></li></ul></div></div></section></div><section class="card lenchart"><header><h2><i data-lucide="ruler" class="ic s"></i>Titleist GT/GTS woods + GT1 hybrid lengths</h2></header><div class="tw"><table><thead><tr><th>Loft</th><th>Club</th><th>Models</th><th>Std</th><th>−½"</th><th>−1"</th></tr></thead><tbody><tr><td>13.5°</td><td>3-wood</td><td class="muted">GT2, GTS2</td><td>43"</td><td>42.5"</td><td>42"</td></tr><tr><td>15°</td><td>3-wood</td><td class="muted">GT1, GT2, GT3, GTS</td><td>43"</td><td>42.5"</td><td>42"</td></tr><tr><td>16.5°</td><td>4-wood</td><td class="muted">GT2, GT3, GTS</td><td>43"</td><td>42.5"</td><td>42"</td></tr><tr class="inbag"><td>18°</td><td>5-wood (mine, GT3) <span class="mtag">In bag</span></td><td class="muted">GT1, GT2, GT3, GTS</td><td>42"</td><td class=hl>41.5"</td><td>41"</td></tr><tr><td>20°</td><td>4-hybrid</td><td class="muted">GT1 hybrid</td><td>40.5"</td><td>40"</td><td>39.5"</td></tr><tr class="inbag"><td>21°</td><td>7-wood <span class="mtag">In bag</span></td><td class="muted">GT1, GT2, GTS</td><td>41.5"</td><td>41"</td><td class=hl>40.5"</td></tr><tr><td>23°</td><td>5-hybrid</td><td class="muted">GT1 hybrid</td><td>40"</td><td>39.5"</td><td>39"</td></tr><tr class="target"><td>24°</td><td>9-wood <span class="mtag">Target</span></td><td class="muted">GT1 only</td><td>41"</td><td>40.5"</td><td class=hl>40"</td></tr><tr><td>26°</td><td>6-hybrid</td><td class="muted">GT1 hybrid</td><td>39.5"</td><td>39"</td><td>38.5"</td></tr><tr><td>29°</td><td>7-hybrid</td><td class="muted">GT1 hybrid</td><td>39"</td><td>38.5"</td><td>38"</td></tr></tbody></table></div><p class="muted">Row marks: In bag (GT3 18° 5-wood, GT2 21° 7-wood set 22.5°) and Target (GT1 24° 9-wood). Highlighted cells = shortening plan in ~½" steps (5-wood 41.5", 7-wood ~40.5" or 9-wood ~40"). GT1 23° hybrid is already 40" stock. Add ~2g head weight per ½" cut. GT1 hybrids ship with a .335" fairway tip unless custom-ordered with .370". Source: Titleist specs.</p></section>
+<div class="foot"><i data-lucide="refresh-cw" class="ic s"></i>Updated Wed Nov 11 · 10:55 AM MT · Open times checked at about 7:18 AM MST on Nov 11. Wed/Fri: Glendale sold out. Forest Dale: Thursday 8:40 AM only. Walking preferred, cart unknown. ForeUp unverified. · Weather: Open-Meteo</div></div>
 <div class="toast" id="toast" role="status"><i data-lucide="check" class="ic s"></i><span>Copied — paste in Golf Bot chat</span></div>
 <script>
 function cp(b){navigator.clipboard&&navigator.clipboard.writeText(b.dataset.msg);b.classList.add('copied');const t=document.getElementById('toast');t.classList.add('on');setTimeout(()=>{b.classList.remove('copied');t.classList.remove('on')},1600)}
